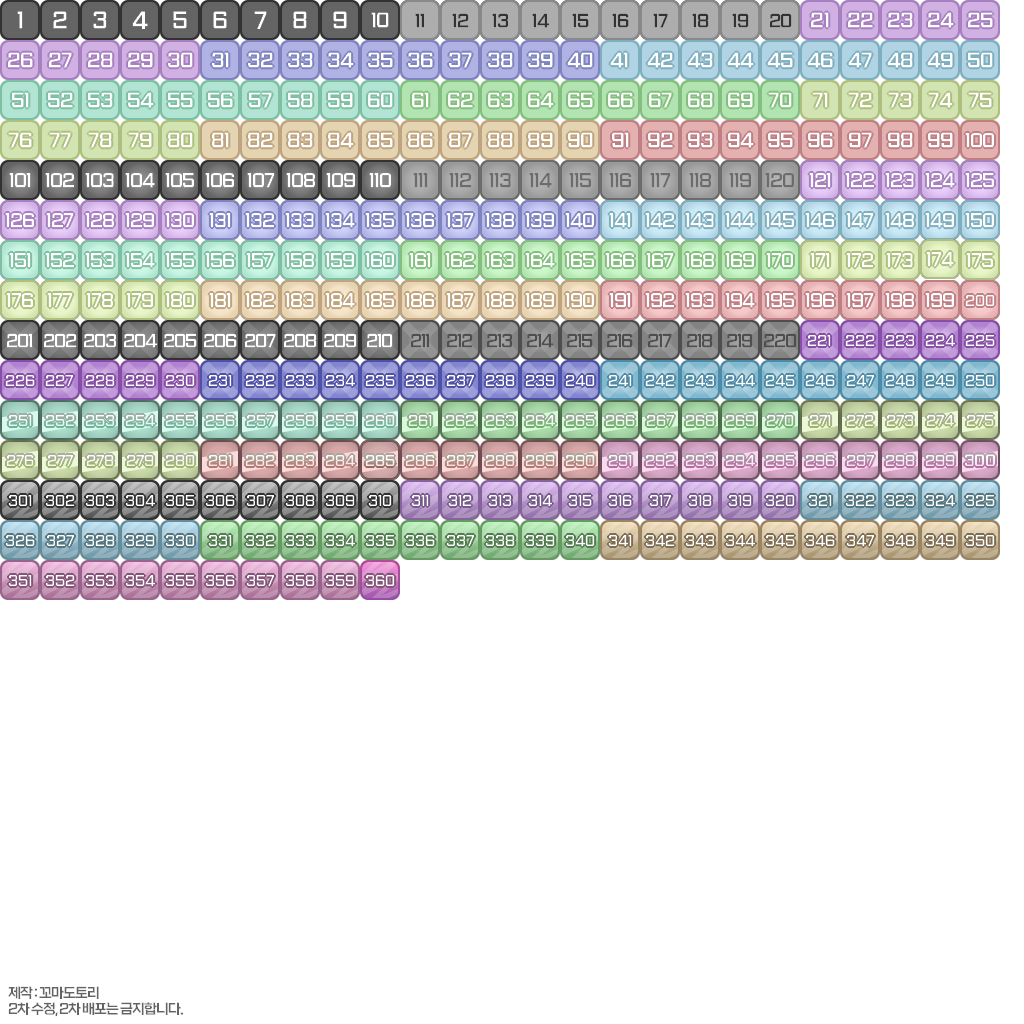
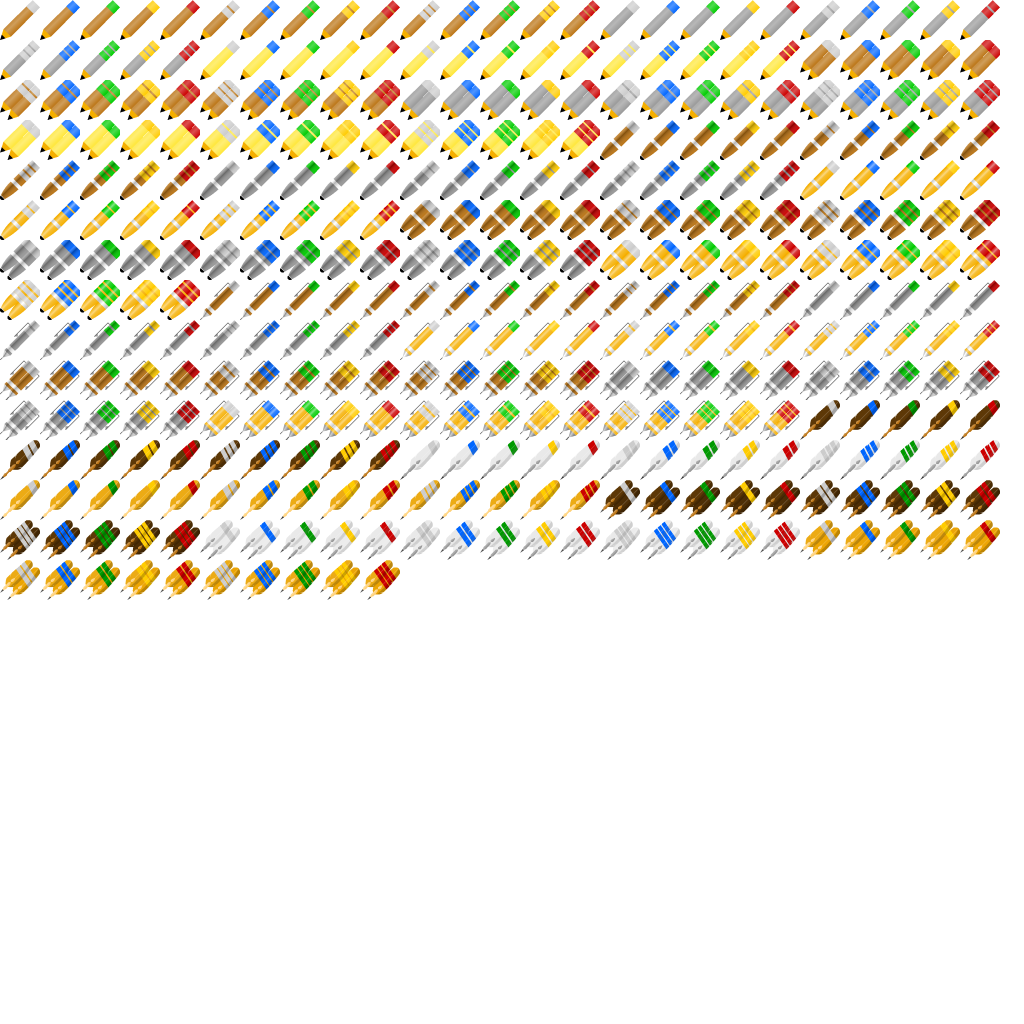
Dictionary Search Revamp

diff --git a/Server/lib/Web/lib/in_game_kkutu.js b/Server/lib/Web/lib/in_game_kkutu.js
@@ -800,6 +800,7 @@ $(document).ready(function () {
 			mode: $("#room-mode").val(),
 			round: $("#room-round").val(),
 			time: $("#room-time").val(),
+			db: $("#choose-db").val(),
 			rule: $("#room-rule").val(),
 			opts: opts,
 			pq: {
@@ -4146,9 +4147,10 @@ function toggleShutBlock(target) {
 function tryDict(text, callback) {
 	var text = text.replace(/[^\sa-zA-Zㄱ-ㅎ0-9가-힣]/g, "");
 	var lang = text.match(/[ㄱ-ㅎ가-힣]/) ? 'ko' : 'en';
+	var db = $("#dict-db").val();
 
 	if (text.length < 1) return callback({ error: 404 });
-	$.get("/dict/" + text + "?lang=" + lang, callback);
+	$.get("/dict/" + text + "?lang=" + lang + "&db=" + db, callback);
 }
 function processRoom(data) {
 	var i, j, key, o;
@@ -6190,7 +6192,7 @@ function getLevelImage(score) {
 	// return getImage("/img/kkutu/lv/lv" + zeroPadding(lv+1, 4) + ".png");
 	return $("<div>").css({
 		'float': "left",
-		'background-image': "url('/img/kkutu/newlv.png')",
+		'background-image': "url('/img/kkutu/lv/newlv.png')",
 		'background-position': lX + "% " + lY + "%",
 		'background-size': "2560%"
 	});

diff --git a/Server/lib/Game/games/classic.js b/Server/lib/Game/games/classic.js
@@ -631,7 +631,6 @@ function getAuto(char, subc, type) {
 	var adv, adc;
 	var key = gameType + "_" + keyByOptions(my.opts);
 	var MAN = DB.kkutu_manner[my.rule.lang];
-	var bool = type == 1;
 
 	adc = char + (subc ? ("|" + subc) : "");
 	switch (gameType) {
@@ -666,7 +665,7 @@ function getAuto(char, subc, type) {
 		var aft;
 		var lst;
 
-		// if (!my.opts.injeong) aqs.push(['flag', { '$nand': Const.KOR_FLAG.INJEONG }]);
+		if (!my.opts.injeong) aqs.push(['flag', { '$nand': Const.KOR_FLAG.INJEONG }]);
 
 		if (my.rule.lang == "ko") {
 			/* if (my.opts.loanword) aqs.push(['flag', { '$nand': Const.KOR_FLAG.LOANWORD }]);
@@ -694,7 +693,7 @@ function getAuto(char, subc, type) {
 				break;
 		}
 
-		my.getWordTable().find.apply(this, aqs).limit(bool ? 1 : 2000).on(function ($md) {
+		my.getWordTable().find.apply(this, aqs).limit(2000).on(function ($md) {
 			var filteredList = $md;
 			if (my.game.chain) {
 				if (Array.isArray(my.game.chain)) {

diff --git a/Server/lib/Web/lib/kkutu/body.js b/Server/lib/Web/lib/kkutu/body.js
@@ -890,9 +890,10 @@ function toggleShutBlock(target) {
 function tryDict(text, callback) {
 	var text = text.replace(/[^\sa-zA-Zㄱ-ㅎ0-9가-힣]/g, "");
 	var lang = text.match(/[ㄱ-ㅎ가-힣]/) ? 'ko' : 'en';
+	var db = $("#dict-db").val();
 
 	if (text.length < 1) return callback({ error: 404 });
-	$.get("/dict/" + text + "?lang=" + lang, callback);
+	$.get("/dict/" + text + "?lang=" + lang + "&db=" + db, callback);
 }
 function processRoom(data) {
 	var i, j, key, o;
@@ -2934,7 +2935,7 @@ function getLevelImage(score) {
 	// return getImage("/img/kkutu/lv/lv" + zeroPadding(lv+1, 4) + ".png");
 	return $("<div>").css({
 		'float': "left",
-		'background-image': "url('/img/kkutu/newlv.png')",
+		'background-image': "url('/img/kkutu/lv/newlv.png')",
 		'background-position': lX + "% " + lY + "%",
 		'background-size': "2560%"
 	});

diff --git a/Server/lib/Web/routes/major.js b/Server/lib/Web/routes/major.js
@@ -365,7 +365,8 @@ exports.run = function (Server, page) {
 	Server.get("/dict/:word", function (req, res) {
 		var word = req.params.word;
 		var lang = req.query.lang;
-		var DB = MainDB.kkutu[lang];
+		var db = req.query.db || "p";
+		var DB = MainDB.kkutu[lang === "ko" && ["g", "p", "u"].indexOf(db) !== -1 ? lang + "_" + db : lang];
 
 		if (!DB) return res.send({ error: 400 });
 		if (!DB.findOne) return res.send({ error: 400 });
